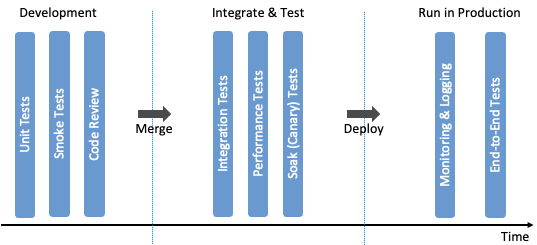
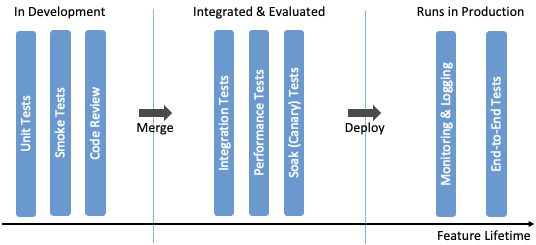
elaborate on feature lifetime

diff --git a/lifecycle.rst b/lifecycle.rst
@@ -156,10 +156,22 @@ production?  That happens, of course, but we tend to call it
 Monitoring & Logging (and subsequent diagnostics) rather than
 testing. This is the subject of Chapter 6.
 
-We will explore each of the stages in :numref:`Figure %s
-<fig-pipeline>` in more detail in the sections that follow, but
-because of the centrality of testing across the entire pipeline, we
-start there.
+We explore each of the stages in :numref:`Figure %s <fig-pipeline>` in
+more detail in the sections that follow, but as we dig into the
+individual mechanisms, it is helpful to keep a high-level,
+feature-centric perspective in the back of our minds. After all, the
+CI/CD pipeline is just an elaborate mechanism to help us manage the
+set of features we want our cloud to support.  Each feature starts in
+development, which corresponds to everything left of the Integration
+Gate in :numref:`Figure %s <fig-pipeline>`. Once a candidate feature
+is mature enough to be officially accepted into the main branch of the
+code repo (i.e., merged), it enters an integration phase, during which
+it is evaluated in combination with all the other candidate features,
+both new and old. Finally, whenever a given subset of features are
+deemed stable and have demonstrated value, they are deployed and
+finally run in production. Because of the centrality of testing
+throughout this entire lifetime of a set of features, we start there.
+
 
 4.2 Testing Strategy
 --------------------
@@ -248,7 +260,8 @@ system are incrementally rolled out.
    :width: 600px
    :align: center
 
-   Sequence of tests, corresponding to the stages of the CI/CD pipeline.
+   Sequence of tests along the feature timeline, as implemented by
+   the CI/CD pipeline.
 
 One of the challenges in crafting a testing strategy is deciding
 whether a given test belongs in the set of Smoke tests that gate
@@ -645,7 +658,9 @@ curated set of services.
 The CI/CD toolchain introduced in this chapter works only when applied
 in concert with an end-to-end versioning strategy, ensuring that the
 right combination of source modules get integrated, and later, the
-right combination of images get deployed.
+right combination of images get deployed. Remember, the high-level
+challenge is to manage the set of features that our cloud supports,
+which is to say, everything hinges on how we do versioning.
 
 Our starting point is to adopt the widely-accepted practice of
 *Semantic Versioning*, where each component is assigned a three-part
@@ -662,7 +677,7 @@ compatible bug fix.
 
 The following sketches one possible interplay between versioning and
 the CI/CD toolchain, keeping in mind there are different approaches to
-the problem. We break the sequence down to the three main stages of
+the problem. We break the sequence down to the three main phases of
 the software lifecycle:
 
 **Development Time**
